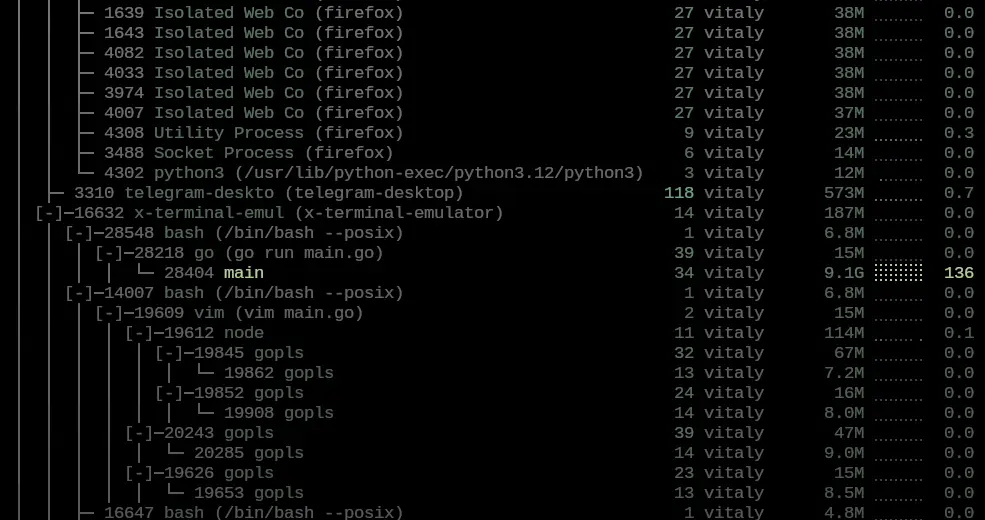
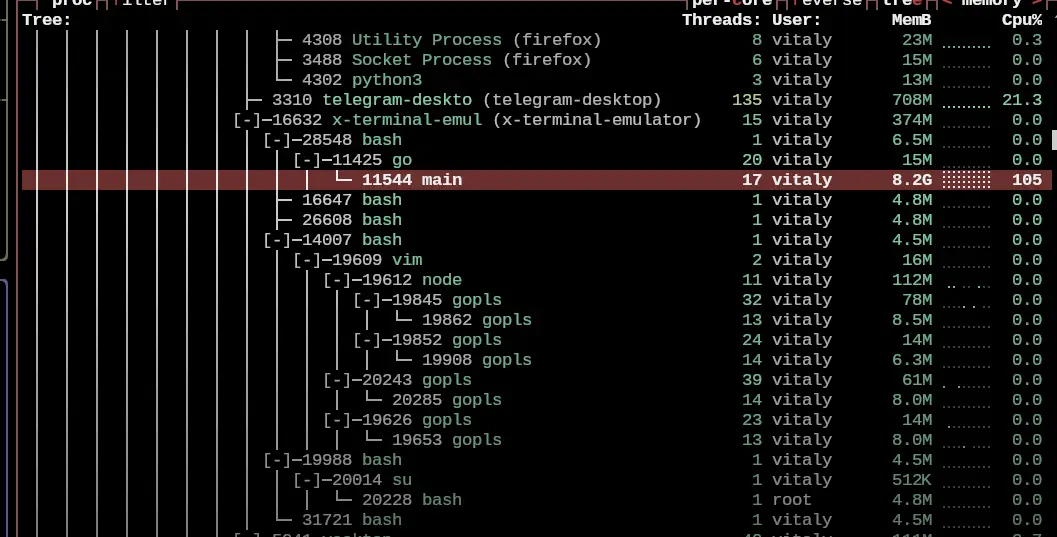
RAM decrease from 9.1 to 8.2, improve performance to ~35 seconds

Changed region(s): [[0.0, 0.0, 1.0, 1.0]]

diff --git a/main.go b/main.go
@@ -41,7 +41,7 @@ import (
 func main() {
 	count := 0
 
-	arr := make([][][][]bool, 256)
+	arr := make([][][][256]bool, 256)
 
 	file, err := os.Open("ip_addresses")
 	if err != nil {
@@ -56,13 +56,10 @@ func main() {
 		groups := strings.Split(line, ".")
 		a, b, c, d := strToInt(groups[0]), strToInt(groups[1]), strToInt(groups[2]), strToInt(groups[3])
 		if arr[a] == nil {
-			arr[a] = make([][][]bool, 256)
+			arr[a] = make([][][256]bool, 256)
 		}
 		if arr[a][b] == nil {
-			arr[a][b] = make([][]bool, 256)
-		}
-		if arr[a][b][c] == nil {
-			arr[a][b][c] = make([]bool, 256)
+			arr[a][b] = make([][256]bool, 256)
 		}
 		if arr[a][b][c][d] {
 			continue

diff --git a/README.md b/README.md
@@ -5,9 +5,9 @@ Peak RAM:
 ```
 THE ANSWER:  1000000000
 
-real	10m14.562s
-user	14m4.333s
-sys	0m24.767s
+real	9m41.779s
+user	9m38.701s
+sys	0m23.720s
 ```
 
 [My hardware](https://pcpartpicker.com/user/vitaly-zdanevich/builds/#view=6cBcCJ)
